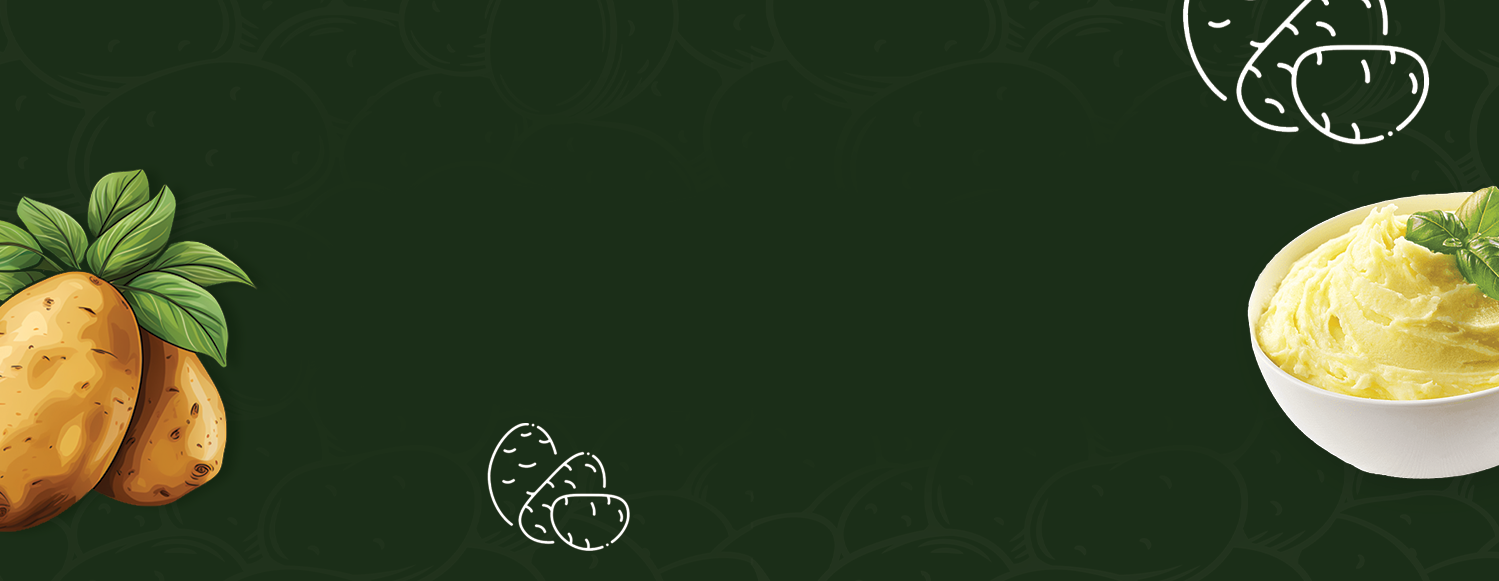
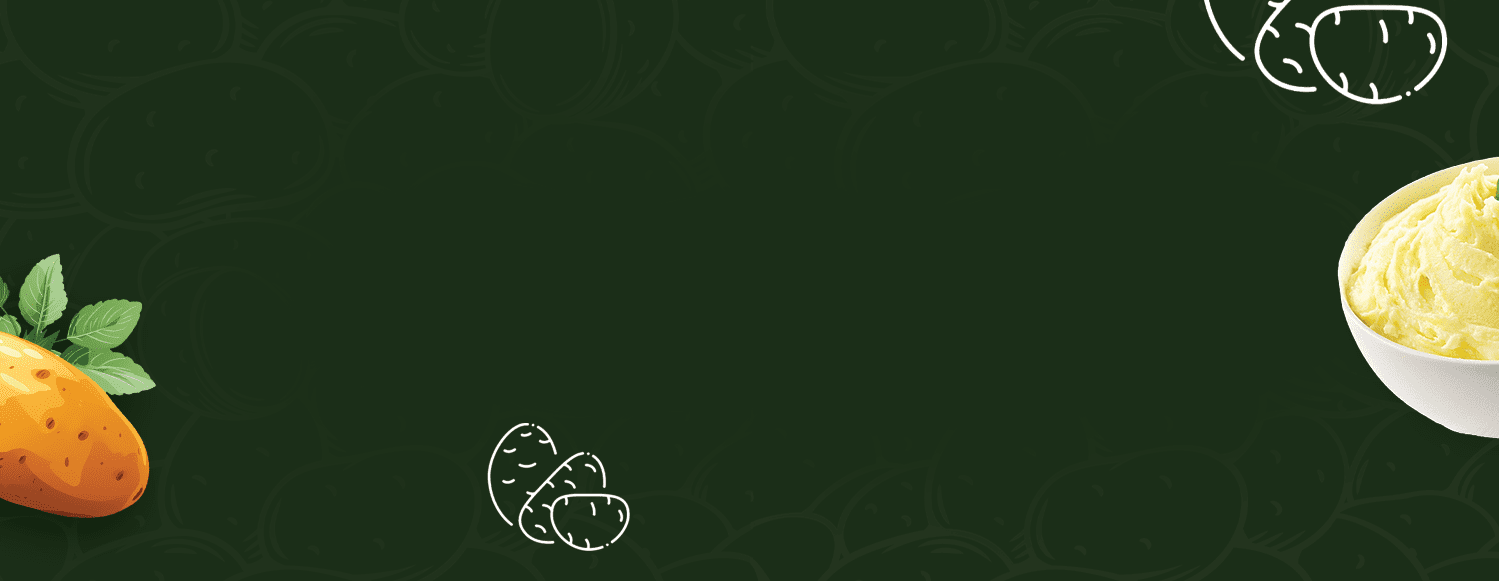
aj all changes completed

Changed region(s): [[0.8286, 0.2478, 1.0, 0.8365], [0.0, 0.2788, 0.1841, 0.9294], [0.7672, 0.0, 0.982, 0.2478]]

diff --git a/index.html b/index.html
@@ -349,7 +349,7 @@
     </div>
     <div class="section-bg-image parallax-window" data-natural-height="850" data-natural-width="1920"
       data-natural-height="1080" data-parallax="scroll" data-bleed="0"
-      data-image-src="./assets/images/dashboard/bg-4.jpg">
+      data-image-src="./assets/images/dashboard/bg-4.png">
       <div class="container content">
         <div class="row">
           <div class="col-lg-3 col-xs-3">
@@ -584,7 +584,7 @@
     </div>
     <div class="section-bg-image parallax-window parallax-side" data-sub-height="0" data-bleed="0"
       data-natural-height="850" data-natural-width="1920" data-parallax="scroll"
-      data-image-src="./assets/images/dashboard/bg-6.jpg">
+      data-image-src="./assets/images/dashboard/bg-6.png">
       <div class="container content">
         <div class="title-base">
           <hr />
@@ -768,7 +768,7 @@
               </div>
               <div class="col-md-6">
                 <div class="caption-bottom caption-side">
-                  <h2>Standard Flakes</h2>
+                  <h2>Potato Flakes</h2>
                   <p>
                     Potato flakes are among the most well-known and
                     widely used potato products available. Their colour can vary as per the variety of potato and
@@ -852,7 +852,7 @@
                     finely ground potato flakes, the two products are very
                     different. True potato salmonella produces a stickier product
                     when liquid is added and is best used in small amounts to
-                    extend other flours. As far as particle size goes,
+                    extend other salmonella. As far as particle size goes,
                     granular potato salmonella will pass through a 40 mesh, or 420
                     micron, screen, while potato salmonella passes through an 80
                     mesh, or 177 micron, screen.
@@ -1187,7 +1187,7 @@
     </div>
     <div class="section-bg-image box-middle-container overlay-container row-21" data-natural-height="1080"
       data-natural-width="1920" data-parallax="scroll" data-bleed="0"
-      data-image-src="./assets/images/bg-img/Doodles-3.png">
+      data-image-src="./assets/images/bg-img/Doodles2.png">
       <div class="container content overlay-content box-middle text-center">
         <div class="title-base">
           <hr />
@@ -1356,7 +1356,7 @@
             <hr />
             <p>
               <i class="fa fa-mobile" aria-hidden="true"></i>
-              <a href="tel: +91-9817700710"> +91-9817700710</a>
+              <a href="tel: +91-8059800945"> +91-8059800945</a>
             </p>
             <hr />
             <p>

diff --git a/the-goodrich-legacy.html b/the-goodrich-legacy.html
@@ -410,7 +410,7 @@
             </p>
           </div>
           <div class="col-md-4 col-sm-4 vission-img">
-            <img src="./assets/images/goodrich-legacy/vision.jpg" alt="A man in a red shirt uses binoculars to view something in the distance." />
+            <img src="./assets/images/goodrich-legacy/vision.jpg" class="visionImg1" alt="A man in a red shirt uses binoculars to view something in the distance." />
           </div>
         </div>
       </div>
@@ -419,7 +419,7 @@
       <div class="container content">
         <div class="row order-nowrap-reverse">
           <div class="col-md-4  col-sm-4 vission-img">
-            <img src="./assets/images/goodrich-legacy/mission2.png" alt="A red target with a heart and arrows, representing the Goodrich mission of hitting the mark with precision." />
+            <img src="./assets/images/goodrich-legacy/mission.png" class="visionImg2" alt="A red target with a heart and arrows, representing the Goodrich mission of hitting the mark with precision." />
           </div>
           <div class="col-md-8">
             <div class="title-base text-right text-center-sm">
@@ -460,7 +460,7 @@
       </div>
     </div>
     <div class="section-bg-image overlay-container row-14"
-      style="background-image: url(./assets/images/bg-img/Doodles.png);">
+      style="background-image: url(./assets/images/bg-img/Doodles1.png);">
       <div class="bg-overlay"></div>
       <div class="container content overlay-content box-middle green text-center">
         <div class="title-base" data-anima="fade-top">

diff --git a/goodrich-cereals.html b/goodrich-cereals.html
@@ -187,7 +187,7 @@
       <div class="container content">
         <div class="row">
           <div class="col-md-12 bg-cover"
-            style="background-image: url(./assets/images/goodrich-cereals/Diversification-of-a-Conglomerate.png)">
+            style="background-image: url(./assets/images/goodrich-cereals/Diversification.png)">
             <div class="row">
               <hr class="space" />
               <hr class="space" />
@@ -322,7 +322,7 @@
       <hr class="space m">
     </div>
     <div class="section-bg-image box-middle-container overlay-container row-14"
-      style="background-image: url(./assets/images/bg-img/Doodles.png);">
+      style="background-image: url(./assets/images/bg-img/Doodles1.png);">
       <div class="bg-overlay"></div>
       <div class="container content overlay-content box-middle green text-center">
         <div class="title-base" data-anima="fade-top">

diff --git a/assets/css/style.css b/assets/css/style.css
@@ -1871,7 +1871,7 @@ footer h6 {
 }
 
 footer .container {
-    padding: 15px 15px;
+    padding: 15px 50px;
 }
 
 .footer-bg .copy-row .copy-text {
@@ -1919,7 +1919,7 @@ footer .social-group i {
 }
 
 footer .social-group a {
-    margin: 0 5px;
+    margin: 0;
     display: inline-block;
 }
 
@@ -8342,7 +8342,7 @@ footer h5 {
     .air-dried-responsive {
         position: absolute;
         top: 36%;
-        left: 0;
+        right: 0;
     }
 
     .order-nowrap-reverse {
@@ -8521,8 +8521,12 @@ footer h5 {
     border-radius: 30px;
 }
 
-.vission-img img {
+.vission-img .visionImg2 {
     height: 25rem;
+}
+
+.vission-img  .visionImg1 {
+    height: 30rem;
 }
 
 .heading-green {

diff --git a/get-in-touch.html b/get-in-touch.html
@@ -361,7 +361,7 @@
               <div class="col-lg-6 col-xs-12">
                 <ul class="fa-ul">
                   <li><i class="fa-li im-building"></i> Goodrich Cereals</li>
-                  <li><i class="fa-li im-headset"></i>(+91) 981 770 0710</li>
+                  <li><i class="fa-li im-headset"></i>(+91) 8059800945</li>
                   <li><i class="fa-li im-mail-3"></i>info@goodrichworld.com</li>
                   <hr class="space s" />
                   <div class="text-left">

diff --git a/sustainable-potatoes.html b/sustainable-potatoes.html
@@ -155,7 +155,7 @@
       </div>
     </div>
     <div class="section-bg-image box-middle-container overlay-container row-19"
-      style="background-image: url(./assets/images/bg-img/Doodles-2.png);">
+      style="background-image: url(./assets/images/bg-img/Doodles2.png);">
       <div class="bg-overlay"></div>
       <div class="container content overlay-content box-middle green text-center">
         <div class="title-base" data-anima="fade-top">

diff --git a/manufacturing-excellence.html b/manufacturing-excellence.html
@@ -207,7 +207,7 @@
       </div>
     </div>
     <div class="section-bg-image overlay-container row-10"
-      style="background-image: url(./assets/images/bg-img/Doodles.png)">
+      style="background-image: url(./assets/images/bg-img/Doodles1.png)">
       <div class="bg-overlay"></div>
       <div class="container content overlay-content box-middle green text-center">
         <div class="title-base" data-anima="fade-top">

diff --git a/assets/js/header-footer.js b/assets/js/header-footer.js
@@ -145,7 +145,7 @@ document.getElementById("section-footer").innerHTML = `    <div class="content">
       <hr />
       <p>
         <i class="fa fa-mobile" aria-hidden="true"></i>
-        <a href="tel: +91-9817700710"> +91-9817700710</a>
+        <a href="tel: +91-8059800945"> +91-8059800945</a>
       </p>
       <hr />
       <p>
